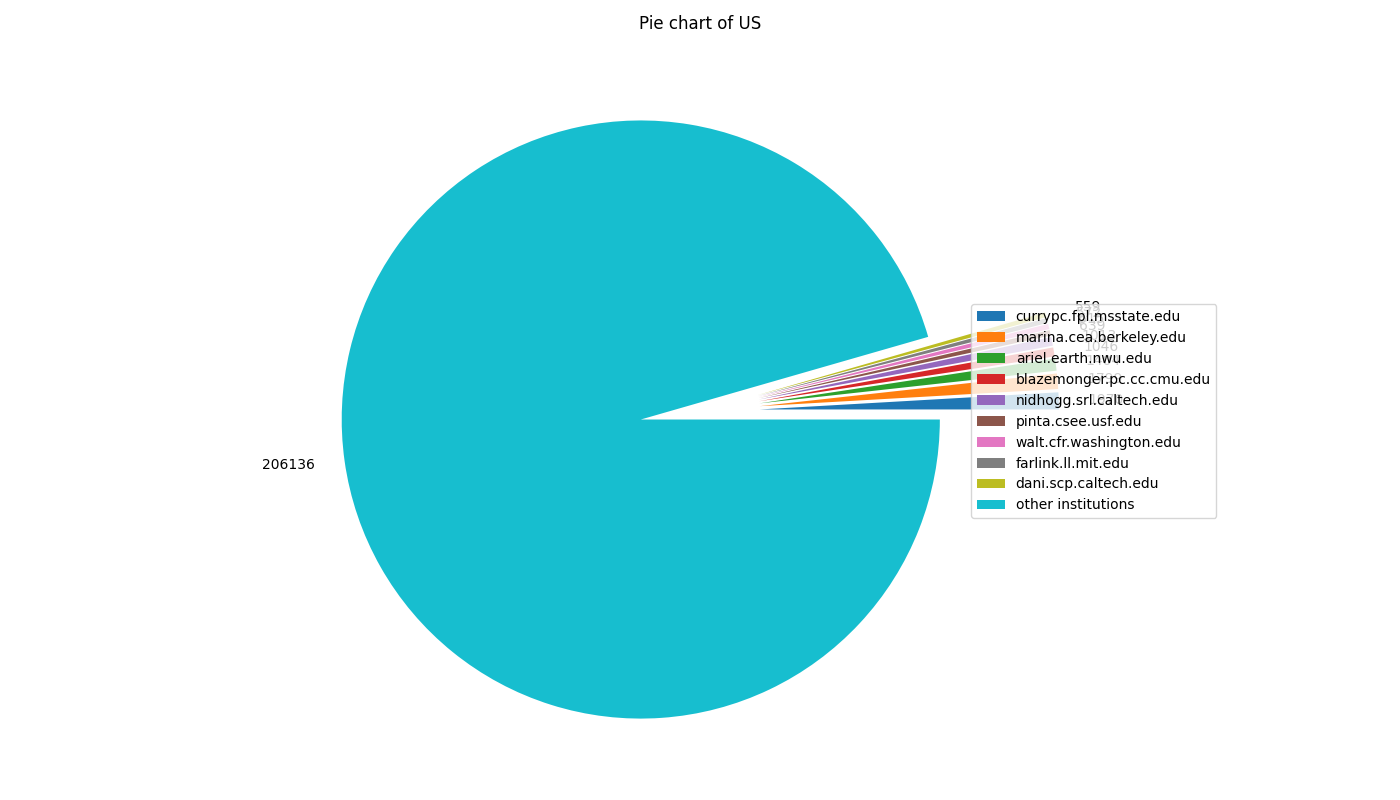
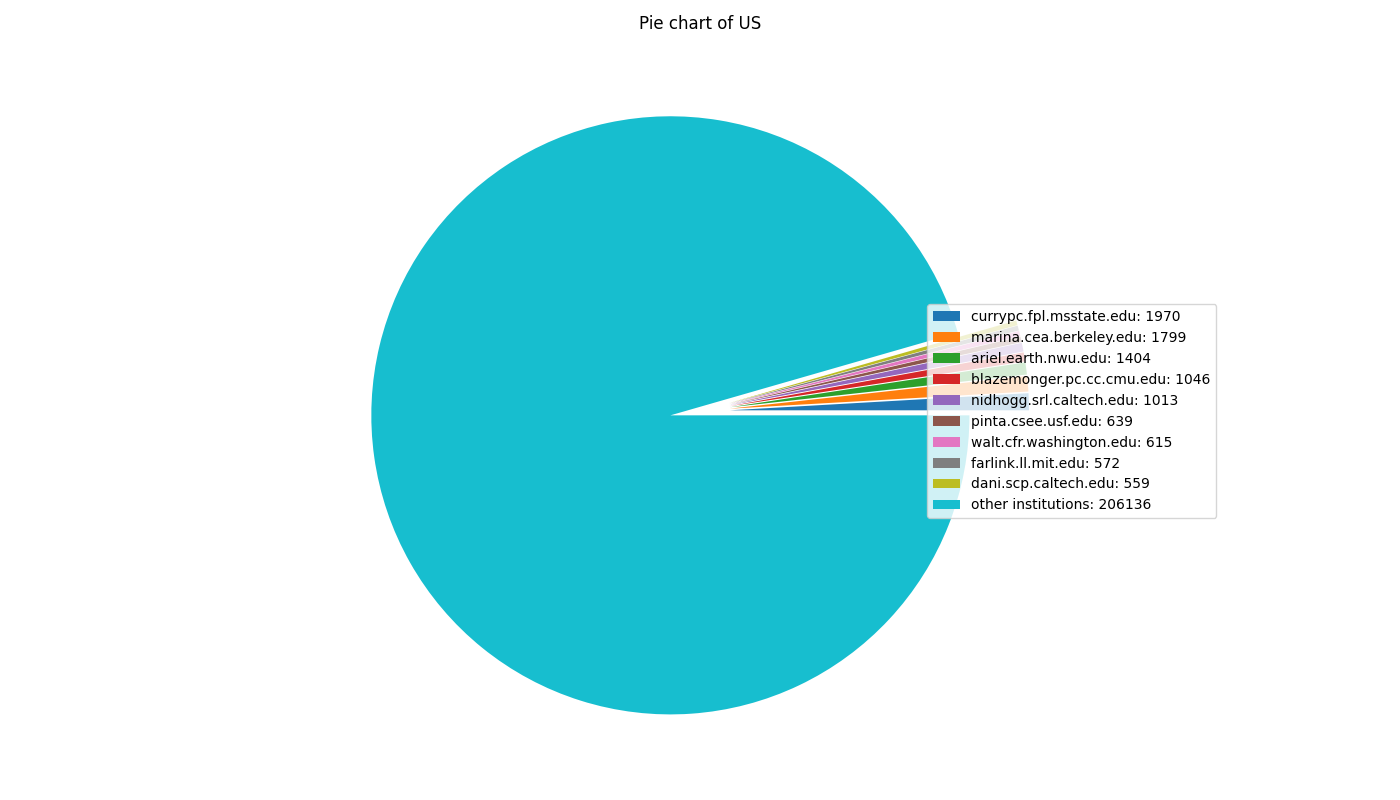
plot

diff --git a/acp23ws-COM6012/Q1_B.py b/acp23ws-COM6012/Q1_B.py
@@ -91,7 +91,7 @@ for country in ['UK', 'US', 'Australia']:
     plt.pie(pd_df['count'], explode=[0.1]*len(pd_df))
     plt.title(f"Pie chart of {country}")
     legend_txt = [f'{host}: {count}' for host, count in zip(pd_df['host'], pd_df['count'])]
-    plt.legend(pd_df['host'], loc='right', bbox_to_anchor=(1.2, 0.5))
+    plt.legend(legend_txt, loc='right', bbox_to_anchor=(1.2, 0.5))
     plt.tight_layout()
     plt.savefig(f"{country}.png")
 
